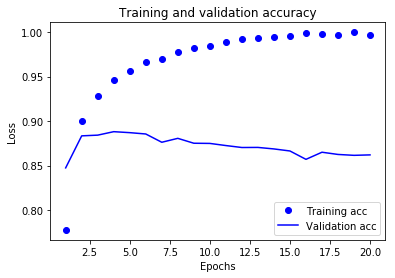
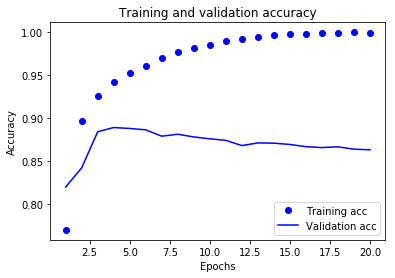
new github

diff --git a/_posts/2018-04-06-IMDB.md b/_posts/2018-04-06-IMDB.md
@@ -32,6 +32,8 @@ Here are the tips for implementation:
 
 * Modification:
 
-1. To combat the overfitting problem, L2 regularization is used with weight coefficient $$ \lambda=0.001 $$. The entire 25000 reviews are used for training and then the resulting trained model is evaluated on the test set of 25000 reviews. The accuracy for the test set is .92 after 4 epochs.  
+1. To combat the overfitting problem, L2 regularization is used with weight coefficient $$ lambda=0.001 $$. The entire 25000 reviews are used for training and then the resulting trained model is evaluated on the test set of 25000 reviews. The accuracy for the test set is 0.92 after 4 epochs.  
 
-2. 
+2. As another approach to overcome overfitting problem, dropout regularization is used. The training, development and test tests are defined in the same way as original problem. The probability that each unit is kept is equal to 0.5.   
+
+<img src="{{ site.url }}{{ site.baseurl }}/images/IMDB/accdrop.png" alt="ooo">      
